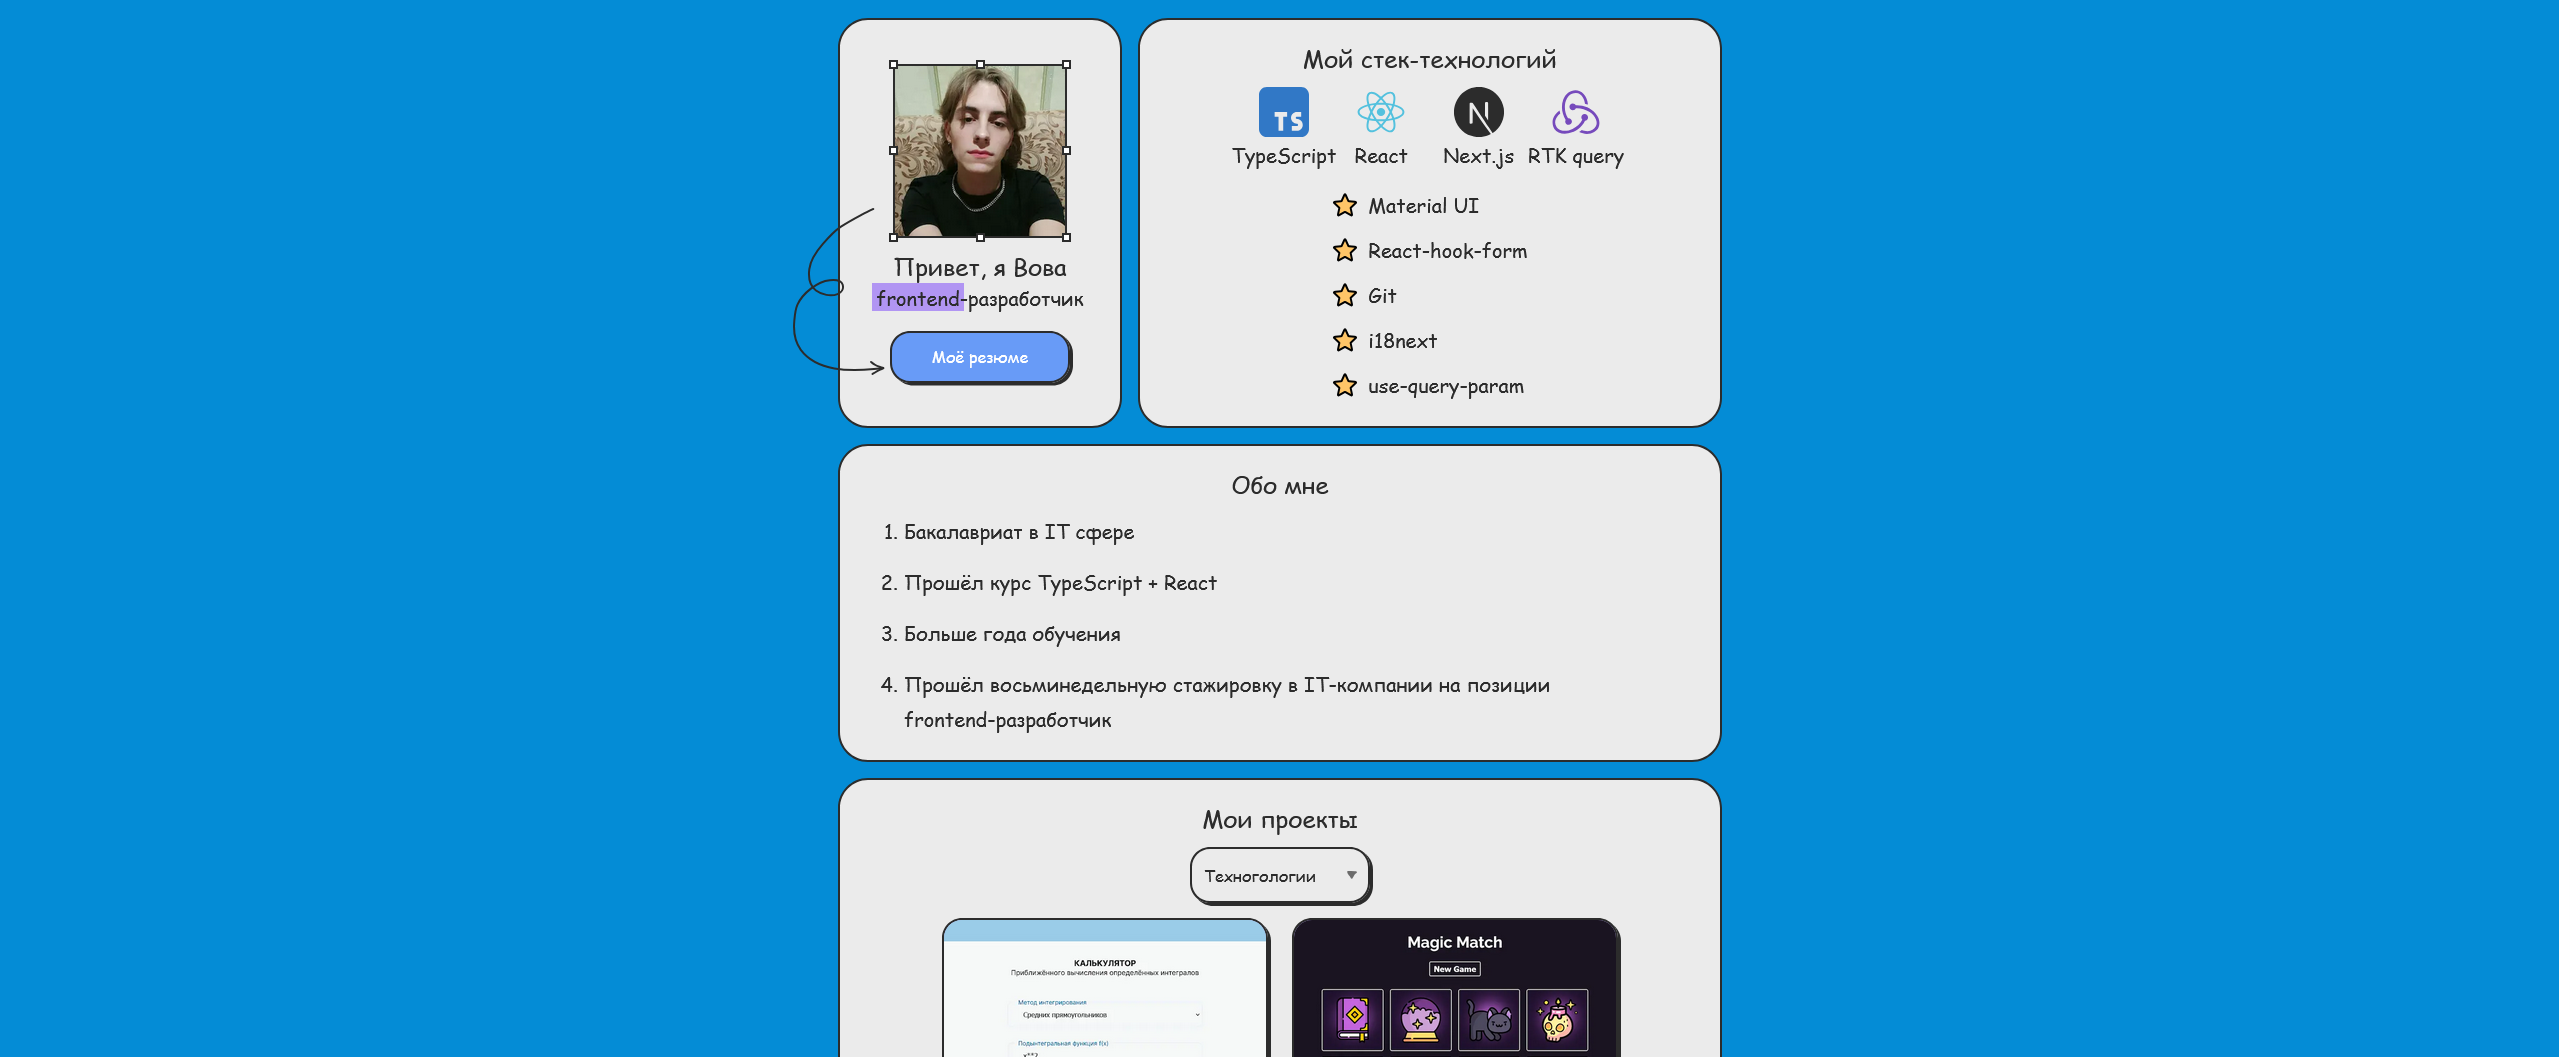
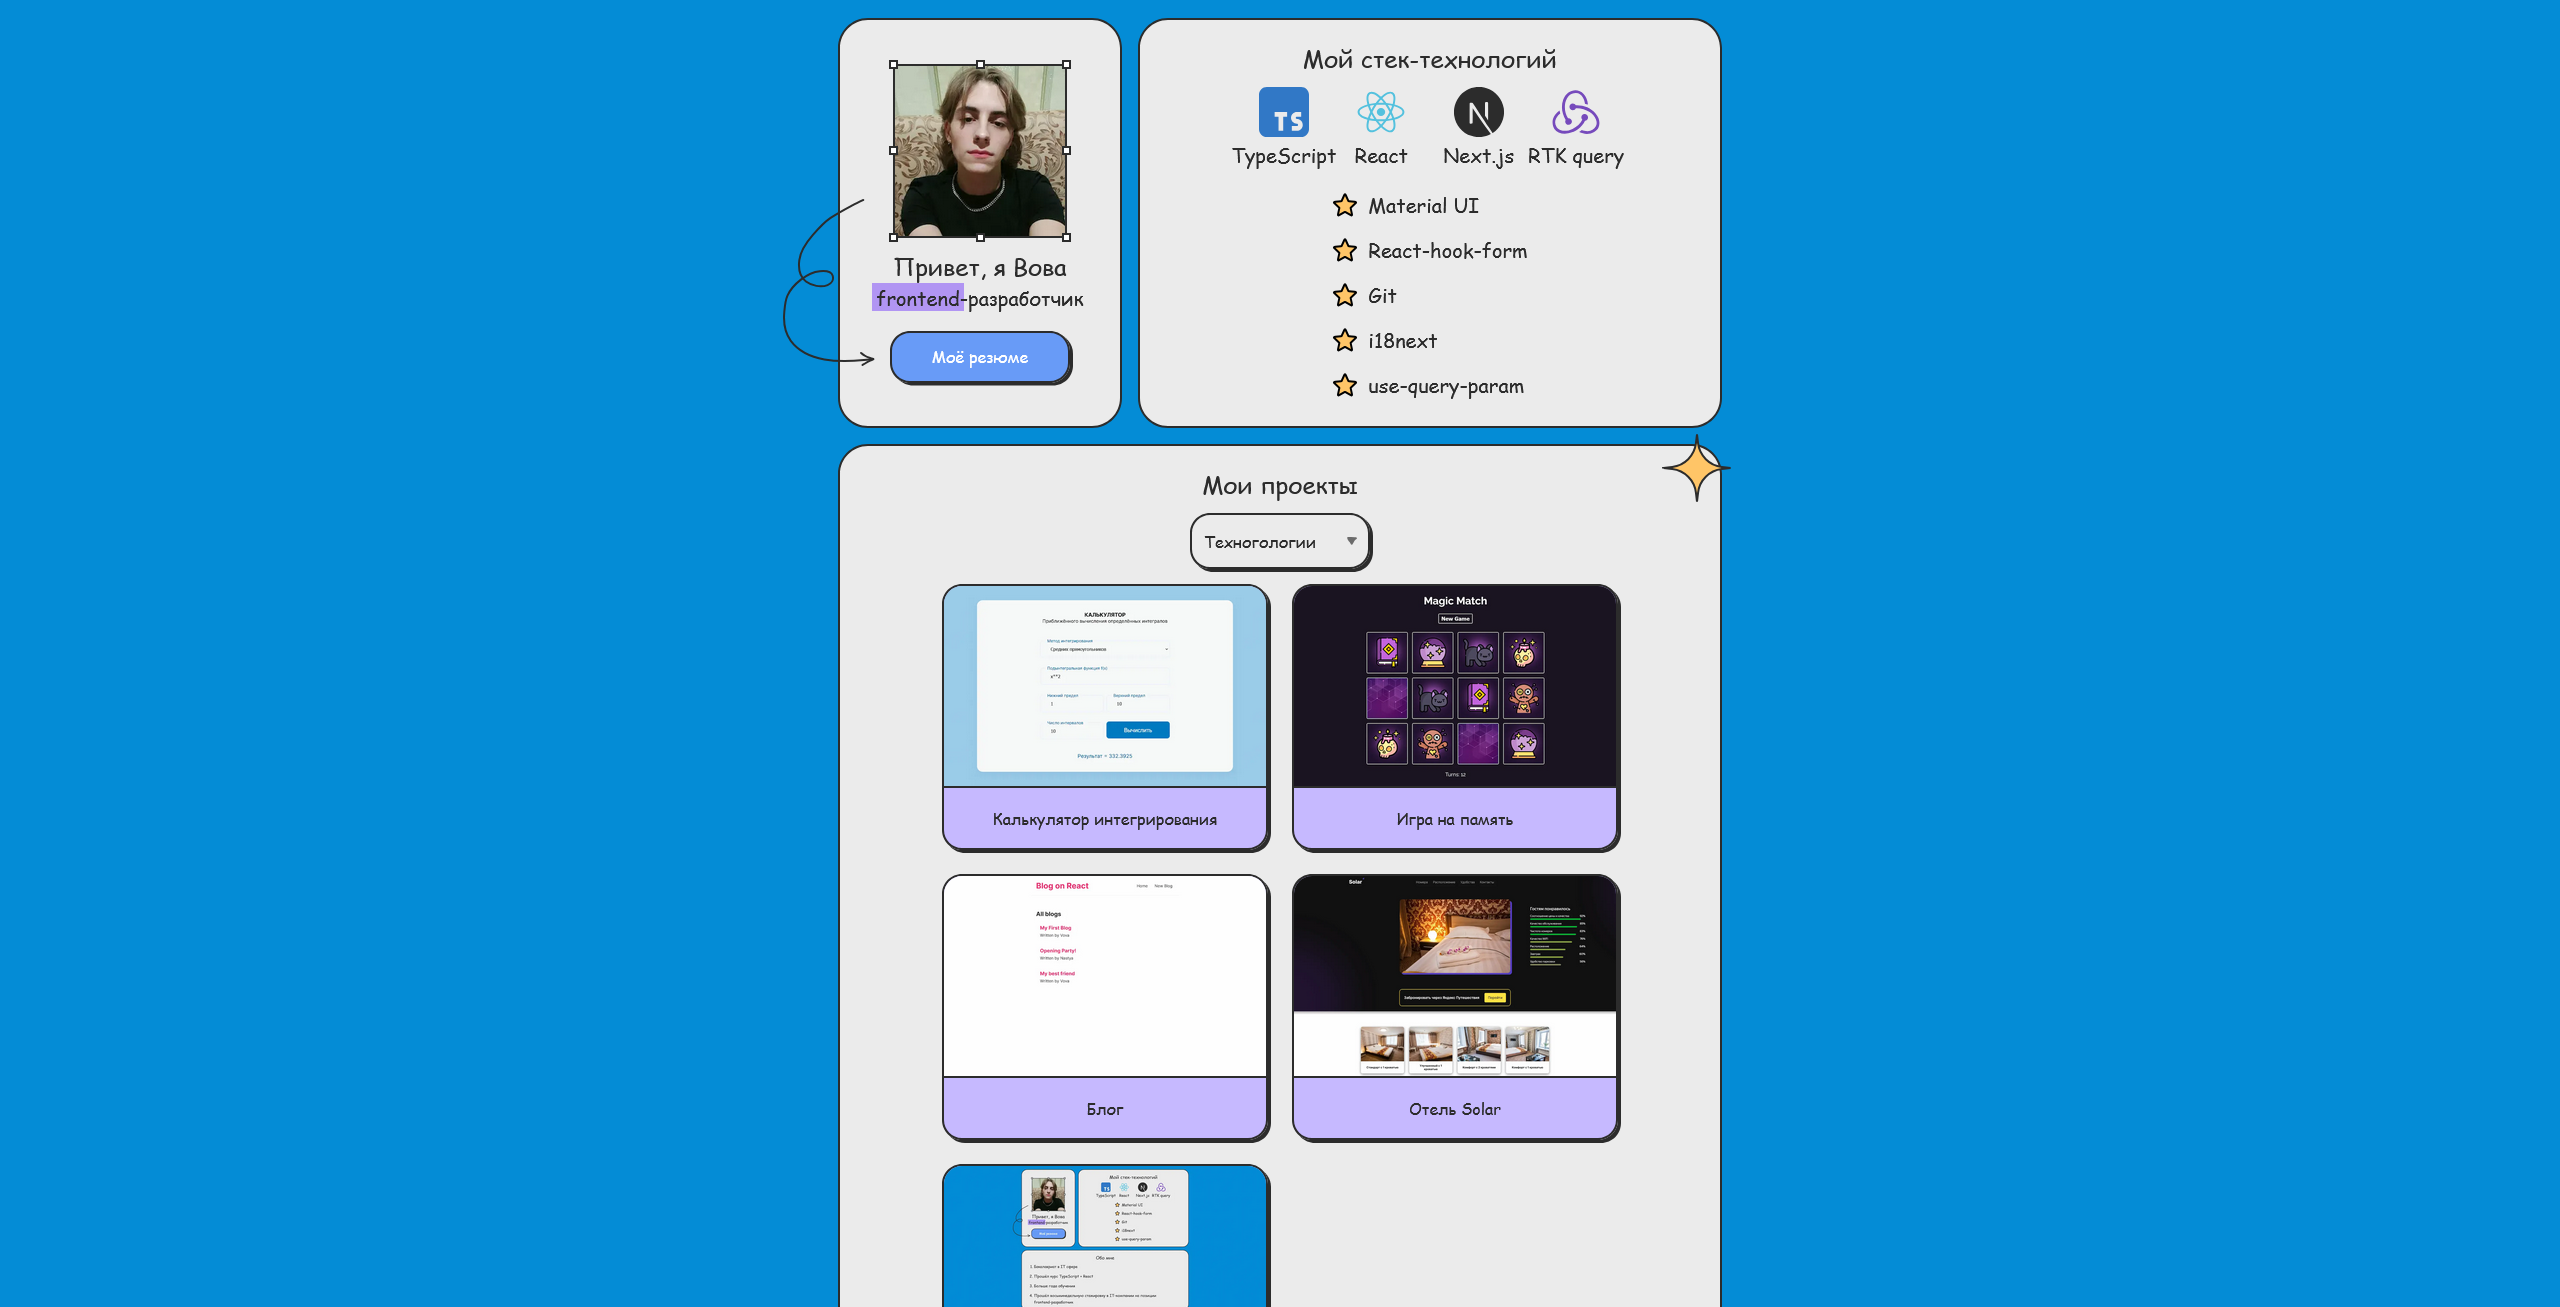
update projects

Changed region(s): [[0.3087, 0.0, 0.6792, 1.0]]

diff --git a/src/components/MyProjects/Projects.ts b/src/components/MyProjects/Projects.ts
@@ -1,0 +1,58 @@
+export const myProjects = [
+	{
+		id: '1',
+		title: 'Калькулятор интегрирования',
+		image: '/images/project-cards/1.png',
+		url: 'https://github.com/Suyukee/define-integral',
+		tags: ['', 'typescript', 'next-js'],
+	},
+	{
+		id: '2',
+		title: 'Игра на память',
+		image: '/images/project-cards/2.png',
+		url: 'https://github.com/Suyukee/memory-game',
+		tags: ['', 'next-js'],
+	},
+	{
+		id: '6',
+		title: 'Dogsterest',
+		image: '/images/project-cards/6.png',
+		url: 'https://github.com/Suyukee/dogsterest',
+		tags: ['', 'next-js'],
+	},
+	{
+		id: '7',
+		title: 'Магазин наушников',
+		image: '/images/project-cards/7.png',
+		url: 'https://github.com/Suyukee/neo-study',
+		tags: ['', 'typescript', 'mui'],
+	},
+	{
+		id: '3',
+		title: 'Блог',
+		image: '/images/project-cards/3.png',
+		url: 'https://github.com/Suyukee/blog-on-react',
+		tags: ['', 'next-js'],
+	},
+	{
+		id: '4',
+		title: 'Отель Solar',
+		image: '/images/project-cards/4.png',
+		url: 'https://github.com/Suyukee/hotel-solar',
+		tags: ['', 'next-js'],
+	},
+	{
+		id: '8',
+		title: 'Тестовое для компании',
+		image: '/images/project-cards/8.png',
+		url: 'https://github.com/Suyukee/copycon-test-task',
+		tags: ['', 'typescript', 'rtk-query'],
+	},
+	{
+		id: '5',
+		title: 'Сайт портфолио',
+		image: '/images/project-cards/5.png',
+		url: 'https://github.com/Suyukee/portfolio',
+		tags: ['', 'typescript', 'next-js', 'mui'],
+	},
+];

diff --git a/src/components/MyProjects/MyProjects.tsx b/src/components/MyProjects/MyProjects.tsx
@@ -4,6 +4,7 @@ import { Grid, Typography } from '@mui/material';
 import FormSelect from '@/components/FormSelect';
 import ProjectCard from '@/components/MyProjects/ProjectCard';
 import { useState } from 'react';
+import { myProjects } from './Projects';
 
 interface Project {
 	id: string;
@@ -12,44 +13,6 @@ interface Project {
 	url: string;
 	tags: string[];
 }
-
-const myProjects = [
-	{
-		id: '1',
-		title: 'Калькулятор интегрирования',
-		image: '/images/project-cards/1.png',
-		url: 'https://github.com/Suyukee/define-integral',
-		tags: ['', 'typescript', 'next-js'],
-	},
-	{
-		id: '2',
-		title: 'Игра на память',
-		image: '/images/project-cards/2.png',
-		url: 'https://github.com/Suyukee/memory-game',
-		tags: ['', 'next-js'],
-	},
-	{
-		id: '3',
-		title: 'Блог',
-		image: '/images/project-cards/3.png',
-		url: 'https://github.com/Suyukee/blog-on-react',
-		tags: ['', 'next-js'],
-	},
-	{
-		id: '4',
-		title: 'Отель Solar',
-		image: '/images/project-cards/4.png',
-		url: 'https://github.com/Suyukee/hotel-solar',
-		tags: ['', 'next-js'],
-	},
-	{
-		id: '5',
-		title: 'Сайт портфолио',
-		image: '/images/project-cards/5.png',
-		url: 'https://github.com/Suyukee/portfolio',
-		tags: ['', 'typescript', 'next-js', 'mui'],
-	},
-];
 
 function MyProjects() {
 	const [technology, setTechnology] = useState('');
